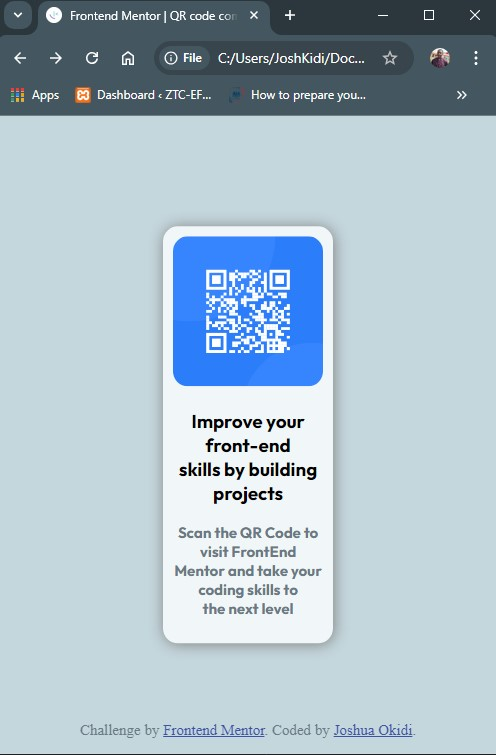
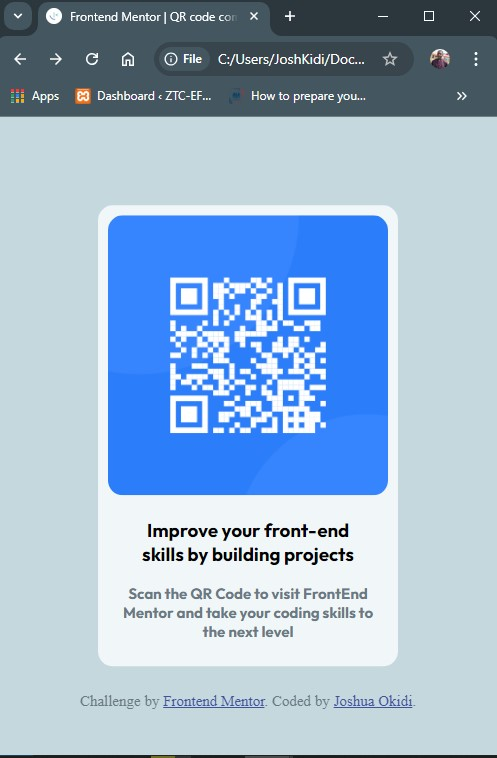
Updated Screenshots

diff --git a/style.css b/style.css
@@ -1,7 +1,7 @@
 body {
     margin: 0;
     padding: 0;
-    background-color: rgb(196, 215, 221);
+    background-color: hsl(194, 27%, 82%);
 }
 
 .outfit-forText {
@@ -19,19 +19,19 @@ body {
     top: 50%;
     left: 50%;
     transform: translate(-50%, -50%);
-    background-color: rgb(241, 246, 248);
+    background-color: hsl(197, 33%, 96%);
     border-radius: 15px;
-    width: 280px;
+    width: 290px;
     margin: 0 auto;
     padding: 10px;
-    box-shadow: 1px 1px 10px grey;
+    /* box-shadow: 1px 1px 3px grey; */
     text-align: center; 
 }
 
 p {
     font-size: 15px;
     font-weight:400;
-    color: rgb(107, 120, 133);
+    color: hsl(210, 11%, 47%);
 }
 .attribution { font-size: 11px;}
-.attribution a { color: hsl(228, 45%, 44%); }
+.attribution a { color: hsl(228, 42%, 43%); }

diff --git a/index.html b/index.html
@@ -20,7 +20,7 @@
   </div>
   <br>
   <footer class="attribution" style="position: relative">
-    <p style="position: fixed; bottom: 0; width:100%; text-align: center"> Challenge by <a href="https://www.frontendmentor.io?ref=challenge" target="_blank">Frontend Mentor</a>. 
+    <p style="position: fixed; bottom: 2em; width:100%; text-align: center"> Challenge by <a href="https://www.frontendmentor.io?ref=challenge" target="_blank">Frontend Mentor</a>. 
       Coded by <a href="#">Joshua Okidi</a>.
     </p>
   </footer>

diff --git a/README.md b/README.md
@@ -16,7 +16,7 @@ This is a solution to the [QR code component challenge on Frontend Mentor](https
 
 
 ## Overview
-I was able to take a careful look at the design of the desktop-design and mobile-design provided in this challenge and try to replicate it using just simple HTML and CSS.
+After a careful observation of the desktop-design and mobile-design provided in this challenge, I have been able to replicate it using HTML and CSS only.
 ### Screenshot
 Here is the Screenshot of the desktop view on my System.
 ![](./Screenshot-full.jpg)
@@ -32,25 +32,25 @@ My Mobile view of the solution:
 - Live Site URL: [Add live site URL here](https://your-live-site-url.com)
 
 ## My process
-Some concrete steps I took;
-  - Built the Structure and included the image
+Major oncrete steps I took;
+  - Built the Structure using HTML and included the image
   - Styled the html structure using CSS
   - It was really difficult for me to centralize the QR code and it's surrounding box.
-  - Similarly, a very tough phase I went through was how to make the QR Image shrink alongside the Box.
+  - Similarly, a quite difficult task I had to tackle was; how to make the QR Image shrink alongside the Box.
+  - After this, I was faced with the challenge of making the content remain the same while I resize the page.
   - From w3schools, under CSS shadow effects, I was able to add shadow box to my div.
 
 ### Built with
 - Semantic HTML5 markup
 - CSS custom properties
 - Flexbox
-- CSS Grid
 
 ### What I learned
 
 Use this section to recap over some of your major learnings while working through this project. Writing these out and providing code samples of areas you want to highlight is a great way to reinforce your own knowledge.
 - I learnt on centralizing a div vertically and horizontally at different viewports.
-- I got more familiar with how the CSS[max-width, and width] work.
-- I was able to set a border around the image particularly using the third css code below.
+- I got more familiar with how the CSS [max-width, and width] work.
+- I was able to set a border around the QR code by simply applying a border radius to it.
 
 **Some of my important code snippets below:**
 
@@ -61,7 +61,7 @@ Use this section to recap over some of your major learnings while working throug
       <p class="outfit-forText">Scan the QR Code to visit FrontEnd <br> Mentor and take your coding skills to <br> the next level</p>
   </div>
 ```
-The CSS below made my box appear the way it did in the screenshot above
+The CSS below made my #container appear in the middle as shown in the screenshot;
 ```css
 #container {
     position: absolute;
@@ -70,7 +70,7 @@ The CSS below made my box appear the way it did in the screenshot above
     transform: translate(-50%, -50%);
     background-color: rgb(241, 246, 248);
     border-radius: 15px;
-    width: 30%;
+    width: 280px;
     margin: 0 auto;
     padding: 10px;
     box-shadow: 1px 1px 15px grey; 
